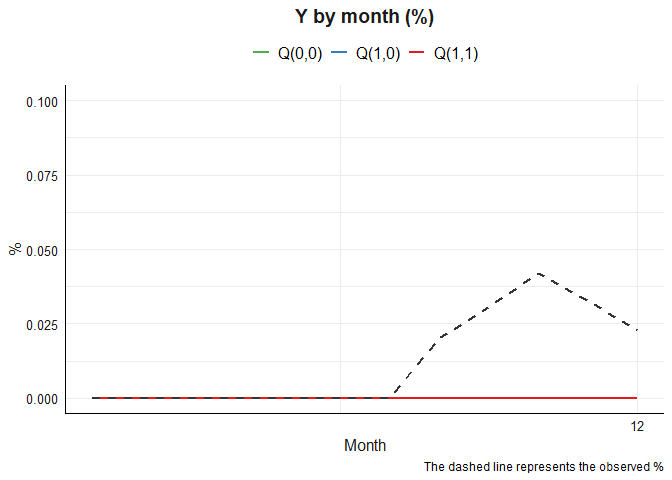
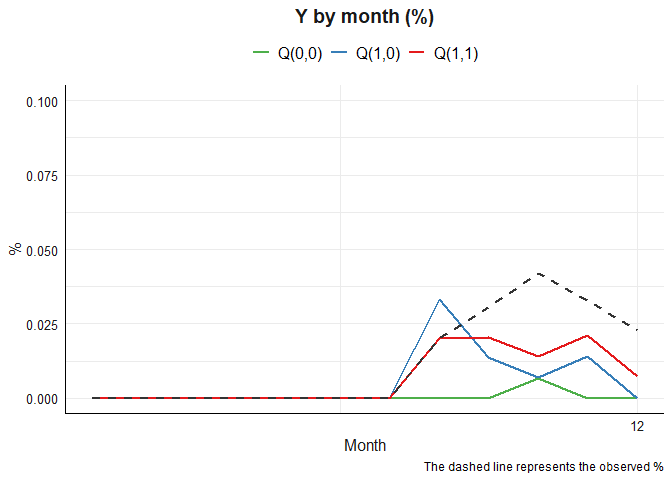
update readme

diff --git a/docs/index.html b/docs/index.html
@@ -80,34 +80,52 @@
 <h3 id="run-model">Run model<a class="anchor" aria-label="anchor" href="#run-model"></a>
 </h3>
 <div class="sourceCode" id="cb4"><pre class="downlit sourceCode r">
-<code class="sourceCode R"><span><span class="co"># library(splines)</span></span>
-<span><span class="co"># op &lt;- tvmedg(data = sim_data,</span></span>
-<span><span class="co">#              fix = c("age","sex","ow","risk"),</span></span>
-<span><span class="co">#              expo = c("Ap"),</span></span>
-<span><span class="co">#              med = c("Mp"),</span></span>
-<span><span class="co">#              tvar = c("L1","L2","L3"),</span></span>
-<span><span class="co">#              outc = c("Yp"),</span></span>
-<span><span class="co">#              lag = 2,</span></span>
-<span><span class="co">#              norev = c("Mp"),</span></span>
-<span><span class="co">#              time = c("mm"),</span></span>
-<span><span class="co">#              LM = F,</span></span>
-<span><span class="co">#              boot = T,</span></span>
-<span><span class="co">#              seed = 123,</span></span>
-<span><span class="co">#              mreg = "binomial",</span></span>
-<span><span class="co">#              lreg = c("binomial","gaussian","gaussian"),</span></span>
-<span><span class="co">#              yreg = "binomial",dof = 3,</span></span>
-<span><span class="co">#              montecarlo = 100,length = 12,</span></span>
-<span><span class="co">#              parallel=TRUE,nboot = 5,ci=.95)</span></span></code></pre></div>
+<code class="sourceCode R"><span><span class="kw"><a href="https://rdrr.io/r/base/library.html" class="external-link">library</a></span><span class="op">(</span><span class="va"><a href="https://github.com/RevolutionAnalytics/doparallel" class="external-link">doParallel</a></span><span class="op">)</span></span>
+<span><span class="co">#&gt; Loading required package: foreach</span></span>
+<span><span class="co">#&gt; Loading required package: iterators</span></span>
+<span><span class="co">#&gt; Loading required package: parallel</span></span>
+<span></span>
+<span><span class="va">cl</span> <span class="op">&lt;-</span> <span class="fu"><a href="https://rdrr.io/r/parallel/makeCluster.html" class="external-link">makeCluster</a></span><span class="op">(</span><span class="fl">8</span><span class="op">)</span></span>
+<span><span class="fu"><a href="https://rdrr.io/pkg/doParallel/man/registerDoParallel.html" class="external-link">registerDoParallel</a></span><span class="op">(</span><span class="va">cl</span><span class="op">)</span></span>
+<span></span>
+<span><span class="va">op</span> <span class="op">&lt;-</span> <span class="fu"><a href="reference/tvmedg.html">tvmedg</a></span><span class="op">(</span>data <span class="op">=</span> <span class="va">sim_data</span>,</span>
+<span>             fix <span class="op">=</span> <span class="fu"><a href="https://rdrr.io/r/base/c.html" class="external-link">c</a></span><span class="op">(</span><span class="st">"age"</span>,<span class="st">"sex"</span>,<span class="st">"ow"</span>,<span class="st">"risk"</span><span class="op">)</span>,</span>
+<span>             expo <span class="op">=</span> <span class="fu"><a href="https://rdrr.io/r/base/c.html" class="external-link">c</a></span><span class="op">(</span><span class="st">"Ap"</span><span class="op">)</span>,</span>
+<span>             med <span class="op">=</span> <span class="fu"><a href="https://rdrr.io/r/base/c.html" class="external-link">c</a></span><span class="op">(</span><span class="st">"Mp"</span><span class="op">)</span>,</span>
+<span>             tvar <span class="op">=</span> <span class="fu"><a href="https://rdrr.io/r/base/c.html" class="external-link">c</a></span><span class="op">(</span><span class="st">"L1"</span>,<span class="st">"L2"</span>,<span class="st">"L3"</span><span class="op">)</span>,</span>
+<span>             outc <span class="op">=</span> <span class="fu"><a href="https://rdrr.io/r/base/c.html" class="external-link">c</a></span><span class="op">(</span><span class="st">"Yp"</span><span class="op">)</span>,</span>
+<span>             lag <span class="op">=</span> <span class="fl">2</span>,</span>
+<span>             norev <span class="op">=</span> <span class="fu"><a href="https://rdrr.io/r/base/c.html" class="external-link">c</a></span><span class="op">(</span><span class="st">"Mp"</span><span class="op">)</span>,</span>
+<span>             time <span class="op">=</span> <span class="fu"><a href="https://rdrr.io/r/base/c.html" class="external-link">c</a></span><span class="op">(</span><span class="st">"mm"</span><span class="op">)</span>,</span>
+<span>             LM <span class="op">=</span> <span class="cn">F</span>,</span>
+<span>             boot <span class="op">=</span> <span class="cn">T</span>,</span>
+<span>             seed <span class="op">=</span> <span class="fl">123</span>,</span>
+<span>             mreg <span class="op">=</span> <span class="st">"binomial"</span>,</span>
+<span>             lreg <span class="op">=</span> <span class="fu"><a href="https://rdrr.io/r/base/c.html" class="external-link">c</a></span><span class="op">(</span><span class="st">"binomial"</span>,<span class="st">"gaussian"</span>,<span class="st">"gaussian"</span><span class="op">)</span>,</span>
+<span>             yreg <span class="op">=</span> <span class="st">"binomial"</span>,dof <span class="op">=</span> <span class="fl">3</span>,</span>
+<span>             montecarlo <span class="op">=</span> <span class="fl">150</span>,length <span class="op">=</span> <span class="fl">12</span>,</span>
+<span>             parallel<span class="op">=</span><span class="cn">TRUE</span>,nboot <span class="op">=</span> <span class="fl">5</span>,ci<span class="op">=</span><span class="fl">.95</span><span class="op">)</span></span>
+<span><span class="co">#&gt; Q(1,1): 0.08 (0.119,0.252) </span></span>
+<span><span class="co">#&gt; Q(1,0): 0.067 (0,0.248) </span></span>
+<span><span class="co">#&gt; Q(0,0): 0.007 (0,0) </span></span>
+<span><span class="co">#&gt; Indirect: 0.013 (0,0.233) </span></span>
+<span><span class="co">#&gt; Direct: 0.06 (0,0.248) </span></span>
+<span><span class="co">#&gt; Total: 0.073 (0.119,0.252) </span></span>
+<span><span class="co">#&gt; Proportional explain: 0.182 (0,1) </span></span>
+<span><span class="co">#&gt; Total time elapsed: 10.00735 mins</span></span></code></pre></div>
 </div>
 <div class="section level3">
 <h3 id="plot">Plot<a class="anchor" aria-label="anchor" href="#plot"></a>
 </h3>
 <div class="sourceCode" id="cb5"><pre class="downlit sourceCode r">
-<code class="sourceCode R"><span><span class="co"># plot(op,"all")</span></span></code></pre></div>
+<code class="sourceCode R"><span><span class="fu"><a href="https://rdrr.io/r/graphics/plot.default.html" class="external-link">plot</a></span><span class="op">(</span><span class="va">op</span>,<span class="st">"all"</span><span class="op">)</span></span></code></pre></div>
+<p><img src="reference/figures/README-unnamed-chunk-5-1.png" width="100%"></p>
 <div class="sourceCode" id="cb6"><pre class="downlit sourceCode r">
-<code class="sourceCode R"><span><span class="co"># plot(op,"cumY")</span></span></code></pre></div>
+<code class="sourceCode R"><span><span class="fu"><a href="https://rdrr.io/r/graphics/plot.default.html" class="external-link">plot</a></span><span class="op">(</span><span class="va">op</span>,<span class="st">"cumY"</span><span class="op">)</span></span></code></pre></div>
+<p><img src="reference/figures/README-unnamed-chunk-6-1.png" width="100%"></p>
 <div class="sourceCode" id="cb7"><pre class="downlit sourceCode r">
-<code class="sourceCode R"><span><span class="co"># plot(op,"tvY")</span></span></code></pre></div>
+<code class="sourceCode R"><span><span class="fu"><a href="https://rdrr.io/r/graphics/plot.default.html" class="external-link">plot</a></span><span class="op">(</span><span class="va">op</span>,<span class="st">"tvY"</span><span class="op">)</span></span></code></pre></div>
+<p><img src="reference/figures/README-unnamed-chunk-7-1.png" width="100%"></p>
 </div>
 </div>
 </div>

diff --git a/README.md b/README.md
@@ -42,36 +42,57 @@ head(sim_data)
 ### Run model
 
 ``` r
-# library(splines)
-# op <- tvmedg(data = sim_data,
-#              fix = c("age","sex","ow","risk"),
-#              expo = c("Ap"),
-#              med = c("Mp"),
-#              tvar = c("L1","L2","L3"),
-#              outc = c("Yp"),
-#              lag = 2,
-#              norev = c("Mp"),
-#              time = c("mm"),
-#              LM = F,
-#              boot = T,
-#              seed = 123,
-#              mreg = "binomial",
-#              lreg = c("binomial","gaussian","gaussian"),
-#              yreg = "binomial",dof = 3,
-#              montecarlo = 100,length = 12,
-#              parallel=TRUE,nboot = 5,ci=.95)
+library(doParallel)
+#> Loading required package: foreach
+#> Loading required package: iterators
+#> Loading required package: parallel
+
+cl <- makeCluster(8)
+registerDoParallel(cl)
+
+op <- tvmedg(data = sim_data,
+             fix = c("age","sex","ow","risk"),
+             expo = c("Ap"),
+             med = c("Mp"),
+             tvar = c("L1","L2","L3"),
+             outc = c("Yp"),
+             lag = 2,
+             norev = c("Mp"),
+             time = c("mm"),
+             LM = F,
+             boot = T,
+             seed = 123,
+             mreg = "binomial",
+             lreg = c("binomial","gaussian","gaussian"),
+             yreg = "binomial",dof = 3,
+             montecarlo = 150,length = 12,
+             parallel=TRUE,nboot = 5,ci=.95)
+#> Q(1,1): 0.08 (0.119,0.252) 
+#> Q(1,0): 0.067 (0,0.248) 
+#> Q(0,0): 0.007 (0,0) 
+#> Indirect: 0.013 (0,0.233) 
+#> Direct: 0.06 (0,0.248) 
+#> Total: 0.073 (0.119,0.252) 
+#> Proportional explain: 0.182 (0,1) 
+#> Total time elapsed: 10.00735 mins
 ```
 
 ### Plot
 
 ``` r
-# plot(op,"all")
+plot(op,"all")
 ```
 
-``` r
-# plot(op,"cumY")
-```
+<img src="man/figures/README-unnamed-chunk-5-1.png" width="100%" />
 
 ``` r
-# plot(op,"tvY")
+plot(op,"cumY")
 ```
+
+<img src="man/figures/README-unnamed-chunk-6-1.png" width="100%" />
+
+``` r
+plot(op,"tvY")
+```
+
+<img src="man/figures/README-unnamed-chunk-7-1.png" width="100%" />
